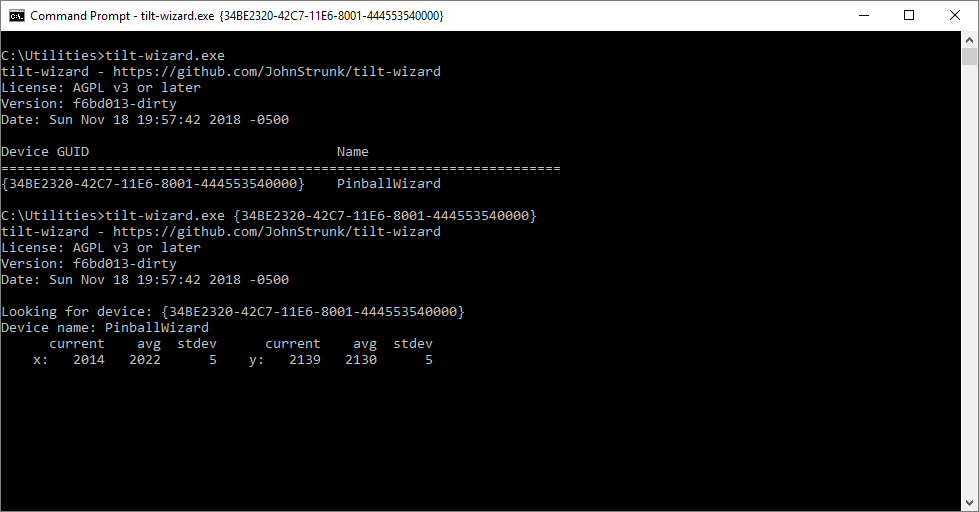
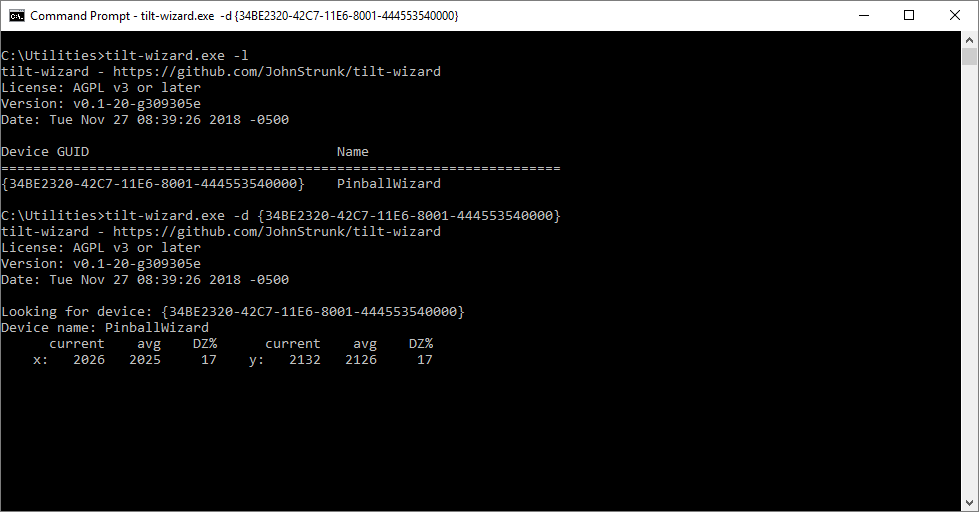
Update documentation for 1.0 release

diff --git a/README.md b/README.md
@@ -26,17 +26,18 @@ calibrates the center, limits, and deadzone on-the-fly.
 Download the latest version from the [Releases
 page](https://github.com/JohnStrunk/tilt-wizard/releases).
 
-Run `tilt-wizard` with no arguments to scan for available DirectInput devices:
+Run `tilt-wizard -l` with no arguments to list available DirectInput devices:
 
 ```
-C:\tilt-wizard>tilt-wizard.exe
+C:\tilt-wizard>tilt-wizard.exe -l
 ```
 
 This should discover any devices attached to your computer. To have tilt-wizard
-automatically tune the device, pass in the GUID of the desired device:
+automatically tune the device, pass in the GUID of the desired device via the
+`-d` option:
 
 ```
-C:\tilt-wizard>tilt-wizard.exe {34BE2320-42C7-11E6-8001-444553540000}
+C:\tilt-wizard>tilt-wizard.exe -d {34BE2320-42C7-11E6-8001-444553540000}
 ```
 
 The application will then run, sampling the X & Y axes and updating the center
@@ -44,12 +45,12 @@ point.
 
 - `current`: The most recent sample
 - `avg`: The currently calculated average (and center point)
-- `stdev`: The calculated standard deviation of the incoming data. You probably
-  want to manually set the deadzone percentage to approximately 4x this value.
+- `DZ%`: The recommended deadzone percentage for this axis. It is calculated
+  based on the standard deviation of the incoming data.
 
 Example:
 
-![Example output fo tilt-wizard](docs/images/output.png)
+![Example output for tilt-wizard](docs/images/output.png)
 
 To integrate tilt-wizard with your pinball cabinet, see the [installation
 document](docs/installation.md).
@@ -67,7 +68,8 @@ C:\>choco install mingw
 ...
 ```
 
-Once you have the prerequisites installed, make sure you update your PATH. In my case, that was:
+Once you have the prerequisites installed, make sure you update your PATH. In my
+case, that was:
 
 ```
 set PATH=%PATH%;C:\ProgramData\chocolatey\lib\mingw\tools\install\mingw64\bin

diff --git a/docs/installation.md b/docs/installation.md
@@ -3,6 +3,13 @@
 This document provides installation guidance for integrating tilt-wizard with
 your pinball setup.
 
+Installation options:
+
+- [Integration with PinballX](#pinballx)
+- [Run during Windows startup](#run-on-startup)
+
+---
+
 ## PinballX
 
 Integrating with [PinballX](https://www.pinballx.com/) is fairly
@@ -13,7 +20,29 @@ straightforward. Make a note of:
 
 Launch the PinballX configuration program and go the "Startup settings" menu.
 Configure tilt-wizard to run on startup as shown below. Substitute the directory
-of `tilt-wizard.exe` for the "Working path" and put your device GUID in the
-"Parameters" field.
+of `tilt-wizard.exe` for the "Working path" and in the "Parameters" field, put
+"`-d`" and your device GUID.
 
 ![PinballX startup settings](images/pinballx_config.png)
+
+## Run on startup
+
+Tilt-wizard can also be configured to run at startup by creating a shortcut and
+placing that in your Startup folder.
+
+- Locate the `tilt-wizard.exe` executable, right-click, and select "Create
+  shortcut".
+- Right-click the shortcut and select "Properties".
+- In the "Shortcut" tab:
+  - Add `-d` and your device GUID to the end of the "Target" field.
+  - Change the "Run" field to "Minimized".
+  - Click "OK".
+
+![Shortcut settings](images/shortcut.png)
+
+After following the above, double clicking the shortcut should start a minimized
+window w/ tilt-wizard tuning your device.
+
+Move **just the shortcut** to your startup folder. The folder will be at a path
+similar to: `C:\Users\johns\AppData\Roaming\Microsoft\Windows\Start
+Menu\Programs\Startup`. Remember to replace my username (johns) with your own.

diff --git a/CHANGELOG.md b/CHANGELOG.md
@@ -2,6 +2,8 @@
 
 ## Master
 
+## Version v1.0
+
 - Added
   - Axis range can be customized via `-r range`.
   - Moving average momentum can be customized via `-m value`.
@@ -14,6 +16,9 @@
 - Limitations
   - Deadzone settings are not visible to other applications and must be set
     manually.
+  - Changes to the calibration are not visible to applications that are
+    currently running. Only newly launched applications see the most current
+    configuration.
 
 ## Version v0.1
 
